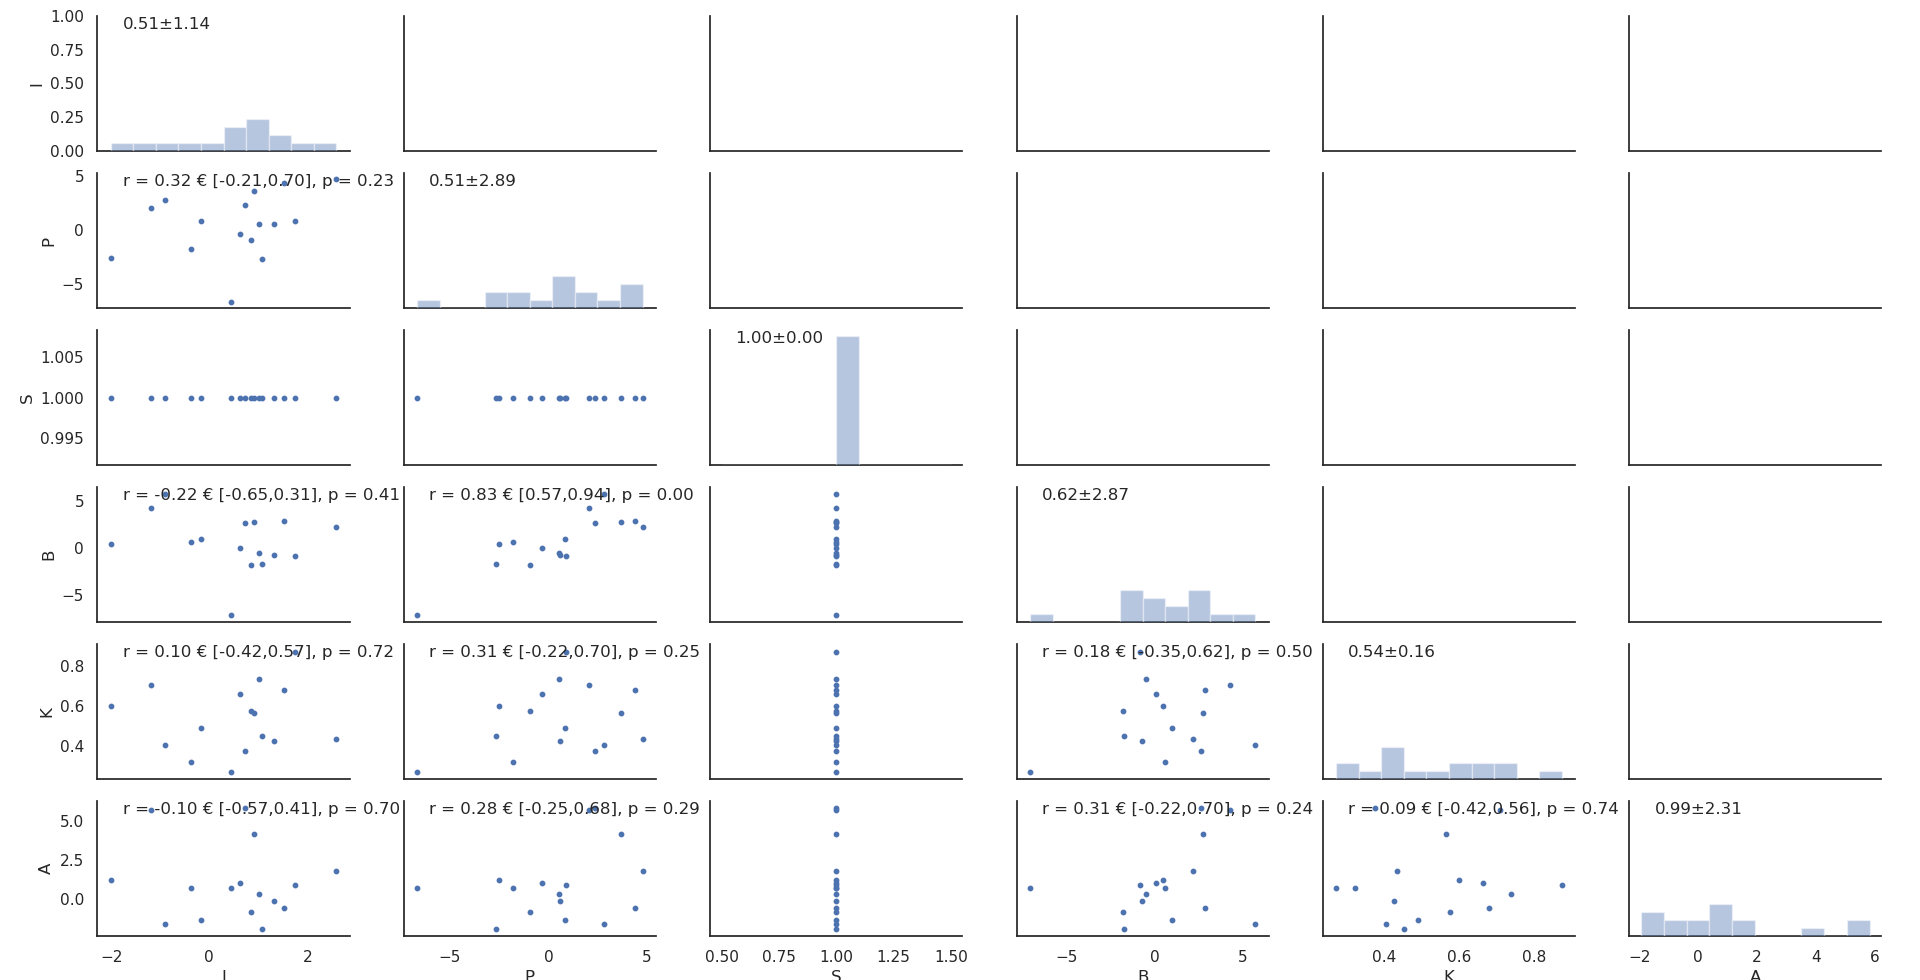
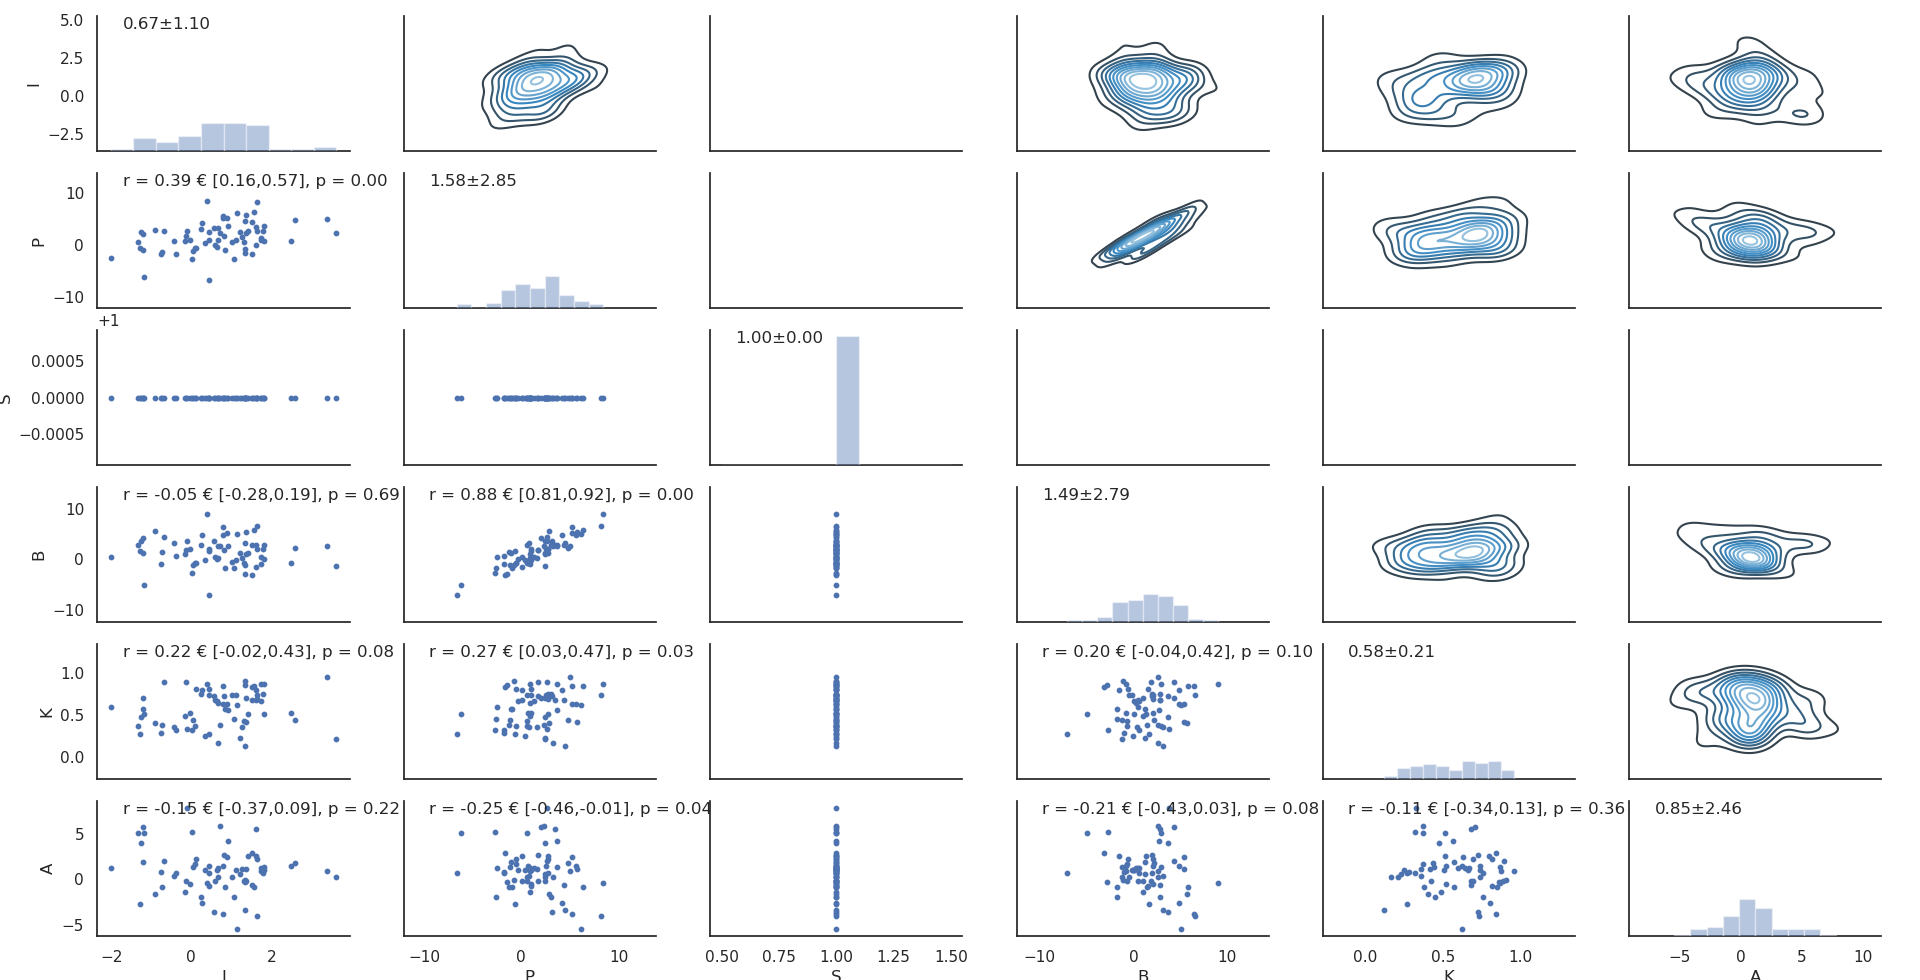
more interventional data

diff --git a/src/causality_inference.py b/src/causality_inference.py
@@ -44,7 +44,7 @@ def summary_analyze(data: pd.DataFrame, visual_pairs: list = [], condition: tupl
 	g = sb.PairGrid(data, palette=["red"])
 	g.map_diag(sb.distplot, kde=False, bins=10)
 	g.map_diag(meanfunc)
-	# g.map_upper(sb.kdeplot, cmap="Blues_d")
+	g.map_upper(sb.kdeplot, cmap="Blues_d")
 
 	g.map_lower(plt.scatter, s=10)
 	g.map_lower(corrfunc)
@@ -63,14 +63,15 @@ if __name__ == "__main__":
 	os.chdir(sys.path[0])
 	datalist = csv_read('saved_data/causality')
 
-	# summary_analyze(datalist[0], condition = ('S', 1))
-	# summary_analyze(datalist[0])
+	summary_analyze(datalist[0])
+	summary_analyze(datalist[0], condition = ('S', 1))
 	# summary_analyze(datalist[1])
 	# summary_analyze(datalist[2])
 	# summary_analyze(datalist[3])
 	# summary_analyze(datalist[4])
-	summary_analyze(datalist[5])
-
+	# summary_analyze(datalist[5])
+	# summary_analyze(datalist[6])
+	# summary_analyze(datalist[7])
 	# data_compares = data[data['S'] == 1], data
 	# data_compares = datalist[0], datalist[3]
 	# for var in 'APKI':
